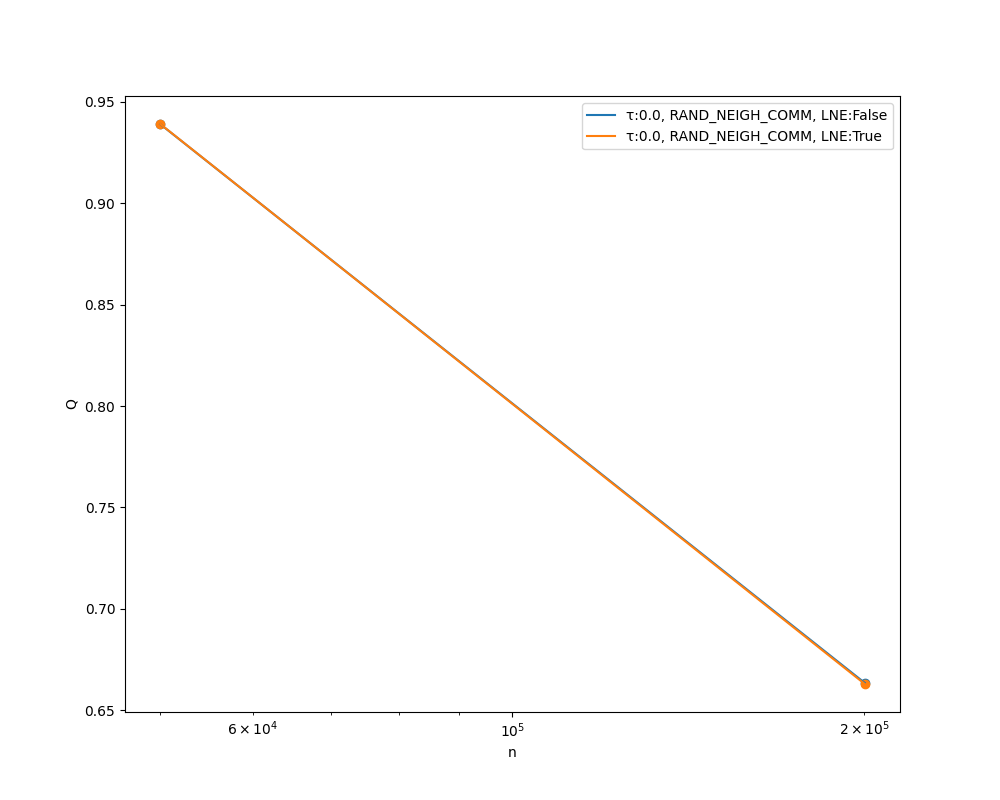
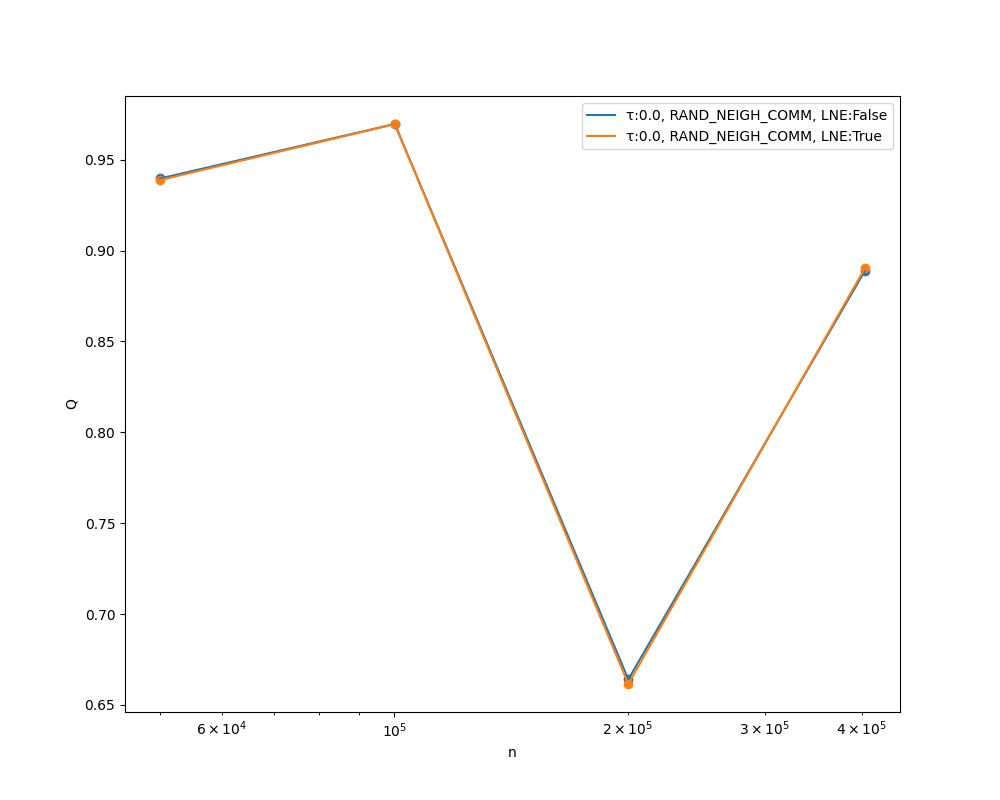
experiment 3

diff --git a/SNACSproject.py b/SNACSproject.py
@@ -21,7 +21,7 @@ def readNetwork(filename):
 	return ig.Graph.Read_Ncol(open(filename), names=False, weights="if_present", directed=True)
 
 def leafPrune(graph):#{leafNode, Connection}
-  nodeDeg = dict(zip([vertex.index for vertex in graph.vs], graph.degree(graph.vs)))#{node: degree}
+  nodeDeg = dict(zip([vertex for vertex in graph.vs], graph.degree(graph.vs)))#{node: degree}
   leafNodes = [k for k,v in nodeDeg.items() if v == 1]#all nodes degree 1
   leafSources = [edge.tuple for edge in graph.es.select(_incident=leafNodes)]#all edges connected to leaf nodes #leafEdgeData.attributes() if applicable
   leafTargets = [edge.tuple for edge in graph.es.select(_target_in=leafNodes)]
@@ -59,7 +59,8 @@ if __name__ == "__main__":
 	# 4 = RAND_NEIGH_COMM (Traag's Improved Method)
 	method_dict = {1: "ALL_COMMS", 2: "ALL_NEIGH_COMMS", 3: "RAND_COMM", 4:"RAND_NEIGH_COMM"}
 	settings_list = [(0.0, 4, False), (0.0, 4, True)]#threshold, comm_select, leaf_node_exclusion
-	networks = [readNetwork("soc-academia.tsv"), readNetwork("cvxbqp1.tsv"), readNetwork("ford2.tsv"), readNetwork("aff-amazon-copurchases.tsv")]#50000, 100196, 200169, 402439
+	networks = [readNetwork("cvxbqp1.tsv"), readNetwork("ford2.tsv"), readNetwork("soc-academia.tsv"), readNetwork("aff-amazon-copurchases.tsv")]#50000, 100196, 200169, 402439
+	
 	q_dict = {}
 	t_dict = {}
 	for network in networks:
@@ -75,15 +76,15 @@ if __name__ == "__main__":
 			else:
 				q_dict[setting] = [(network_size, q)]
 				t_dict[setting] = [(network_size, t)]
-
+	
 	print(q_dict)
 	print(t_dict)
 	print("Start plotting...")
 	f, ax = plt.subplots(figsize=(10,8))
-	for key, val in q_dict.items():
+	for key, val in q_dict.items():#setting: [network_size, modularity]
 		x,y = zip(*val)
+		plt.plot(x,y)
 		plt.scatter(x,y)
-		plt.plot(x,y)#network_size, modularity
 	plt.xlabel("n")
 	ax.set_xscale('log')
 	plt.ylabel("Q")
@@ -91,10 +92,10 @@ if __name__ == "__main__":
 	plt.savefig('modularityPlot.png')
 
 	f, ax = plt.subplots(figsize=(10,8))
-	for key, val in t_dict.items():
+	for key, val in t_dict.items():#setting: [network_size, modularity]
 		x,y = zip(*val)
+		plt.plot(x,y)
 		plt.scatter(x,y)
-		plt.plot(x,y)#network_size, time
 	plt.xlabel("n")
 	ax.set_xscale('log')
 	plt.ylabel("Time (s)")
